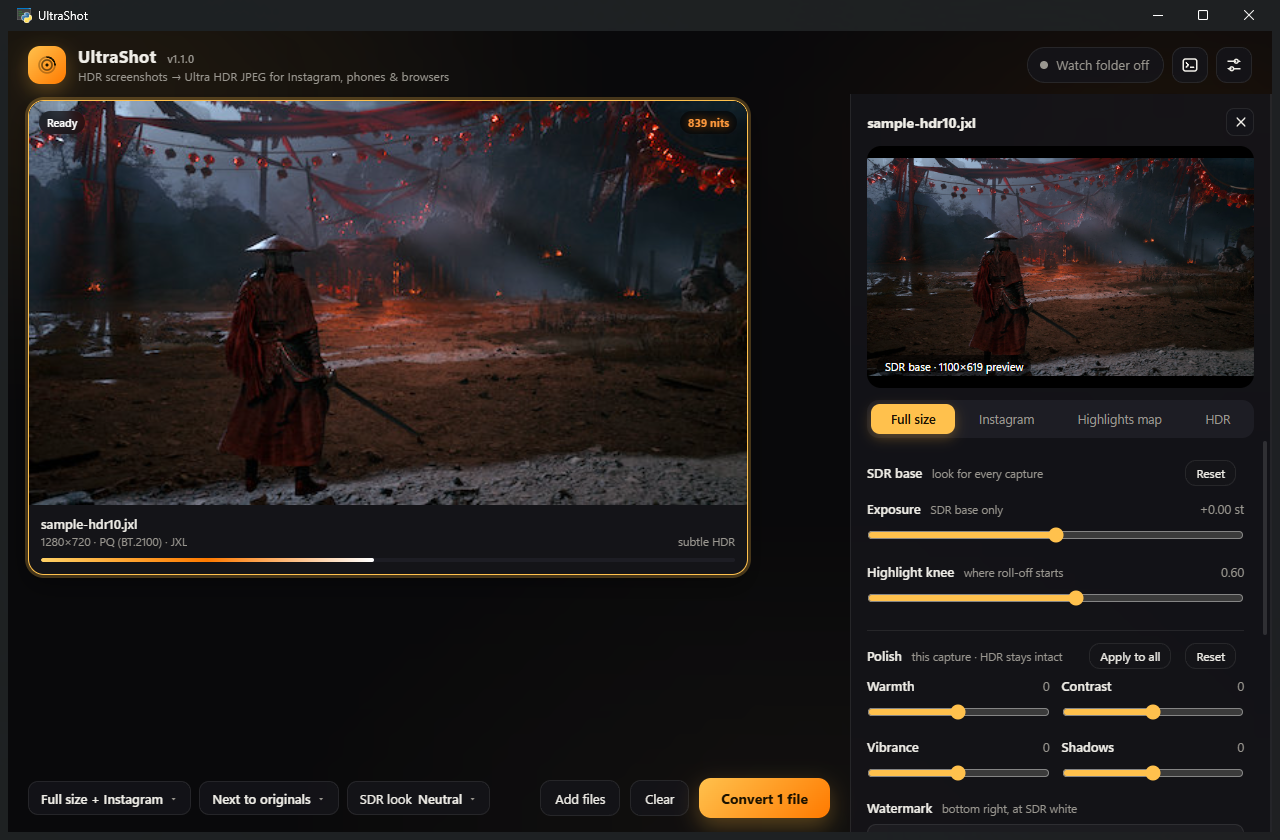
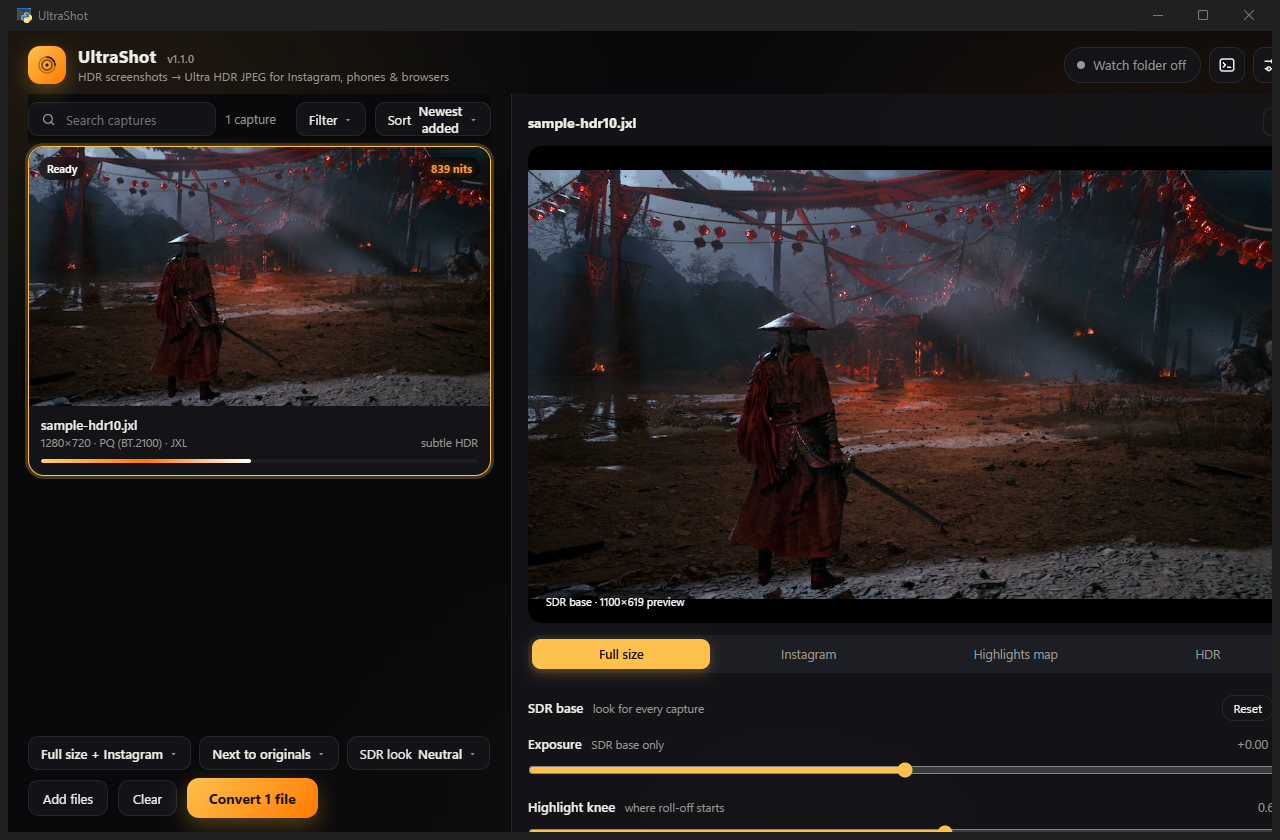
Search, filter and sort for the tiles
A bar above the grid with a search box, a filter menu (pending, converted, failed; JPEG XL or JPEG XR; polished only) and a sort menu (added, capture date, name, brightest, largest). The Convert button and the viewer follow what is shown, the sort is remembered, ties fall back to list order with the newest first, new cards land in place rather than at the end, and Ctrl+F jumps to the search. Anchored menus open below a control in the upper half of the window.

diff --git a/ui/app.js b/ui/app.js
@@ -16,6 +16,7 @@ const S = {
   inspTarget: "full",    // full | ig | heat | hdr
   edit: null,            // uncommitted polish of the selected card while a slider is being dragged
   frame: null,           // uncommitted Instagram framing while the picture is being dragged
+  view: { q: "", status: "all", fmt: "all", polished: false },   // what the grid shows, this launch only
   api: null,
 };
 let previewSeq = 0, previewTimer = null, previewBusy = false, previewAgain = false;
@@ -57,7 +58,7 @@ window.app = {
         const had = S.files.has(p.id);
         S.files.set(p.id, p);
         if (!had) S.order.push(p.id);
-        had ? updateCard(p) : renderGrid();
+        had ? (matches(p) === !!document.querySelector(`.card[data-id="${p.id}"]`) ? updateCard(p) : renderGrid()) : renderGrid();
         if (S.selected === p.id) renderInspectorInfo(p);
         updateProgress();
         updateConvertButton();
@@ -78,21 +79,69 @@ window.app = {
 /* ------------------------------------------------------------------ rendering */
 function renderAll() { renderGrid(); renderChips(); renderWatch(); renderInspectorControls(); updateProgress(); }
 
+// ---- sort and filter -------------------------------------------------------------------------
+const SORTS = {
+  added_desc: ["Newest added", (a, b) => (b.added || 0) - (a.added || 0)],
+  added_asc: ["Oldest added", (a, b) => (a.added || 0) - (b.added || 0)],
+  captured_desc: ["Capture date, newest", (a, b) => (b.mtime || 0) - (a.mtime || 0)],
+  captured_asc: ["Capture date, oldest", (a, b) => (a.mtime || 0) - (b.mtime || 0)],
+  name: ["Name", (a, b) => a.name.localeCompare(b.name, undefined, { numeric: true, sensitivity: "base" })],
+  peak: ["Brightest first", (a, b) => ((b.stats && b.stats.peak) || 0) - ((a.stats && a.stats.peak) || 0)],
+  pixels: ["Largest first", (a, b) => ((b.stats ? b.stats.w * b.stats.h : 0) - (a.stats ? a.stats.w * a.stats.h : 0))],
+};
+const STATUS_FILTERS = { all: "Everything", pending: "Pending", done: "Converted", failed: "Failed" };
+const FMT_FILTERS = { all: "Any format", jxl: "JPEG XL · ReShade", jxr: "JPEG XR · NVIDIA / Game Bar" };
+function viewActive() { const v = S.view; return !!(v.q || v.status !== "all" || v.fmt !== "all" || v.polished); }
+function matches(f) {
+  const v = S.view;
+  if (v.q && !f.name.toLowerCase().includes(v.q)) return false;
+  if (v.status === "pending" && !["queued", "working"].includes(f.status)) return false;
+  if (v.status === "done" && !["done", "skipped"].includes(f.status)) return false;
+  if (v.status === "failed" && f.status !== "failed") return false;
+  if (v.fmt !== "all" && !f.path.toLowerCase().endsWith("." + v.fmt)) return false;
+  if (v.polished && !(f.edit && !polishIsDefault(polishOf(f)))) return false;
+  return true;
+}
+// The cards the grid shows, in the chosen order. Everything that walks the list uses this.
+function visibleIds() {
+  const key = SORTS[S.settings.tile_sort] ? S.settings.tile_sort : "added_desc";
+  const cmp = SORTS[key][1], newestFirst = key !== "added_asc" && key !== "captured_asc" && key !== "name";
+  // ties (a batch added in one go, equal peaks) fall back to the list order, newest first for the descending sorts
+  return S.order.map((id, i) => ({ f: S.files.get(id), i })).filter((x) => x.f && matches(x.f))
+    .sort((a, b) => cmp(a.f, b.f) || (newestFirst ? b.i - a.i : a.i - b.i)).map((x) => x.f.id);
+}
+function renderGridBar(shown) {
+  const v = S.view, total = S.order.length;
+  $("#gridbar").classList.toggle("hidden", total === 0);
+  $("#gridCount").textContent = viewActive() ? `${shown} of ${total}` : `${total} capture${total === 1 ? "" : "s"}`;
+  const parts = [];
+  if (v.status !== "all") parts.push(STATUS_FILTERS[v.status]);
+  if (v.fmt !== "all") parts.push(v.fmt.toUpperCase());
+  if (v.polished) parts.push("Polished");
+  $("#chipFilter").innerHTML = parts.length ? `Filter <b>${parts.join(" · ")}</b>` : "Filter";
+  $("#chipFilter").classList.toggle("active", parts.length > 0);
+  const key = SORTS[S.settings.tile_sort] ? S.settings.tile_sort : "added_desc";
+  $("#chipSort").innerHTML = `Sort <b>${SORTS[key][0]}</b>`;
+  $("#chipSort").classList.toggle("active", key !== "added_desc");
+  if ($("#q").value !== v.q) $("#q").value = v.q;
+}
 function renderGrid() {
   const grid = $("#grid"), empty = $("#empty");
-  const has = S.order.length > 0;
-  grid.classList.toggle("hidden", !has);
+  const has = S.order.length > 0, ids = visibleIds();
   empty.classList.toggle("hidden", has);
+  grid.classList.toggle("hidden", !has || ids.length === 0);
+  $("#nomatch").classList.toggle("hidden", !has || ids.length > 0);
   grid.innerHTML = "";
-  for (const id of S.order) grid.appendChild(cardFor(S.files.get(id)));
-  fitGrid();
+  for (const id of ids) grid.appendChild(cardFor(S.files.get(id)));
+  renderGridBar(ids.length);
+  fitGrid(ids.length);
   updateConvertButton();
 }
 
 // Tiles grow to use the space: one capture fills the view, a handful share it, and only a long
 // list falls back to the dense grid. Re-run whenever the list or the available area changes.
-function fitGrid() {
-  const grid = $("#grid"), main = $("#main"), n = S.order.length;
+function fitGrid(count) {
+  const grid = $("#grid"), main = $("#main"), n = count == null ? visibleIds().length : count;
   if (!n) return;
   const gap = 14, cs = getComputedStyle(main);
   const W = main.clientWidth - parseFloat(cs.paddingLeft) - parseFloat(cs.paddingRight);
@@ -112,11 +161,11 @@ new ResizeObserver(() => fitGrid()).observe(document.getElementById("main"));
 
 function pendingIds() {
   const redo = !!S.settings.overwrite;
-  return S.order.filter((id) => { const f = S.files.get(id); return f && (f.status === "queued" || f.status === "failed" || (redo && f.status !== "working")); });
+  return (viewActive() ? visibleIds() : S.order).filter((id) => { const f = S.files.get(id); return f && (f.status === "queued" || f.status === "failed" || (redo && f.status !== "working")); });
 }
 
 function updateConvertButton() {
-  const b = $("#btnConvert"), pending = pendingIds().length, total = S.order.length;
+  const b = $("#btnConvert"), pending = pendingIds().length, total = viewActive() ? visibleIds().length : S.order.length;
   const working = S.order.some((id) => S.files.get(id)?.status === "working");
   b.disabled = pending === 0;
   if (!total) b.textContent = "Convert";
@@ -452,6 +501,7 @@ async function saveSetting(key, val) {
   if (key === "theme") applyTheme();
   renderChips(); renderWatch(); renderInspectorControls();
   if (["save_mode", "save_dir", "make_full", "make_ig", "auto_sdr", "suffix", "full_dir", "watch", "watch_subfolders"].includes(key)) renderSettings();
+  if (key === "tile_sort") renderGrid();
   if (["exposure", "knee", "auto_sdr", "ig_crop", "transfer", "ig_width"].includes(key)) requestPreview();
 }
 
@@ -561,8 +611,11 @@ function popover(anchor, items, at) {
     p.style.left = Math.max(8, Math.min(at.x, innerWidth - w - 8)) + "px";
     p.style.top = Math.max(8, Math.min(at.y, innerHeight - h - 8)) + "px";
   } else {
-    const r = anchor.getBoundingClientRect();
-    p.style.left = r.left + "px"; p.style.bottom = (innerHeight - r.top + 8) + "px"; p.style.top = "auto";
+    // anchored: open above a control in the lower half of the window, below one in the upper half
+    const r = anchor.getBoundingClientRect(), w = p.offsetWidth;
+    p.style.left = Math.max(8, Math.min(r.left, innerWidth - w - 8)) + "px";
+    if (r.top > innerHeight / 2) { p.style.bottom = (innerHeight - r.top + 8) + "px"; p.style.top = "auto"; }
+    else { p.style.top = (r.bottom + 8) + "px"; p.style.bottom = "auto"; }
   }
   const close = (e) => { if (!p.contains(e.target) && e.target !== anchor) { p.classList.add("hidden"); document.removeEventListener("mousedown", close); } };
   setTimeout(() => document.addEventListener("mousedown", close), 0);
@@ -587,7 +640,7 @@ function appendLog(t, msg) {
 /* ------------------------------------------------------------------ result viewer */
 const LB = { ids: [], i: 0, which: "ig", path: null, seq: 0, info: false, report: "", compare: false, cmpMode: "sdrhdr", cmpZoom: "fit", cmpSeq: 0 };
 
-function convertedIds() { return S.order.filter((id) => { const f = S.files.get(id); return f && f.outputs && f.outputs.length; }); }
+function convertedIds() { return visibleIds().filter((id) => { const f = S.files.get(id); return f && f.outputs && f.outputs.length; }); }
 
 function openResult(id) {
   const f = S.files.get(id);
@@ -853,6 +906,26 @@ function bindUI() {
   live("#rKnee", "knee", (v) => Number(v).toFixed(2), "#vKnee");
   bindFraming();
   bindPaneDrag();
+  // sort and filter
+  let qTimer;
+  $("#q").addEventListener("input", () => { clearTimeout(qTimer); qTimer = setTimeout(() => { S.view.q = $("#q").value.trim().toLowerCase(); renderGrid(); }, 120); });
+  $("#q").addEventListener("keydown", (e) => { if (e.key === "Escape") { $("#q").value = ""; S.view.q = ""; renderGrid(); $("#q").blur(); } });
+  $("#clearFilters").addEventListener("click", () => { S.view = { q: "", status: "all", fmt: "all", polished: false }; renderGrid(); });
+  $("#chipFilter").addEventListener("click", (e) => {
+    const v = S.view, set = (patch) => { Object.assign(S.view, patch); renderGrid(); };
+    popover(e.currentTarget, [
+      ...Object.entries(STATUS_FILTERS).map(([k, label]) => ({ label, checked: v.status === k, run: () => set({ status: k }) })),
+      "-",
+      ...Object.entries(FMT_FILTERS).map(([k, label]) => ({ label, checked: v.fmt === k, run: () => set({ fmt: k }) })),
+      "-",
+      { label: "Polished only", checked: v.polished, run: () => set({ polished: !v.polished }) },
+      ...(viewActive() ? ["-", { label: "Clear filters", run: () => { S.view = { q: "", status: "all", fmt: "all", polished: false }; renderGrid(); } }] : []),
+    ]);
+  });
+  $("#chipSort").addEventListener("click", (e) => {
+    const cur = SORTS[S.settings.tile_sort] ? S.settings.tile_sort : "added_desc";
+    popover(e.currentTarget, Object.entries(SORTS).map(([k, [label]]) => ({ label, checked: cur === k, run: () => saveSetting("tile_sort", k) })));
+  });
   $("#lookReset").addEventListener("click", async () => {
     S.settings = await S.api.set_settings({ exposure: 0, knee: 0.6 });
     renderChips(); renderInspectorControls(); requestPreview();
@@ -905,6 +978,7 @@ function bindUI() {
     if (e.key === "Enter" && !e.ctrlKey && S.selected && document.activeElement.tagName !== "INPUT" && !lbOpen) openResult(S.selected);
     if (e.key === "Delete" && S.selected && document.activeElement.tagName !== "INPUT") S.api.remove(S.selected);
     if (e.ctrlKey && e.key.toLowerCase() === "o") { e.preventDefault(); S.api.pick_files(); }
+    if (e.ctrlKey && e.key.toLowerCase() === "f" && S.order.length) { e.preventDefault(); $("#q").focus(); $("#q").select(); }
     if (e.ctrlKey && e.key === "Enter") convertAll();
   });
   document.addEventListener("contextmenu", (e) => { if (e.target.tagName !== "INPUT") e.preventDefault(); });

diff --git a/ui/app.css b/ui/app.css
@@ -106,6 +106,19 @@ small { color: var(--muted); font-weight: 400; }
 
 /* ---------- main */
 #main { position: relative; z-index: 1; padding: 6px 20px 12px; overflow: auto; min-height: 0; }
+.gridbar { position: sticky; top: -6px; z-index: 3; display: flex; align-items: center; gap: 10px; padding: 8px 0 10px; margin-top: -6px;
+  background: linear-gradient(var(--bg) 82%, transparent); }
+.gridbar .search { display: flex; align-items: center; gap: 8px; height: 34px; padding: 0 12px; border-radius: 10px; background: var(--panel); border: 1px solid var(--border); color: var(--muted); flex: 0 1 260px; min-width: 140px; }
+.gridbar .search:focus-within { border-color: var(--accent); color: var(--text); }
+.gridbar .search input { flex: 1; min-width: 0; border: 0; background: none; color: var(--text); font: inherit; font-size: 13px; outline: none; }
+.gridbar .search input::-webkit-search-cancel-button { filter: invert(.7); cursor: pointer; }
+.gridbar .count { font-size: 12.5px; color: var(--muted); white-space: nowrap; }
+.gridbar .spacer { flex: 1; }
+.gridbar .chip.active { border-color: rgba(255,193,77,.5); color: var(--text); }
+.gridbar .chip.active b { color: var(--accent); }
+.nomatch { color: var(--muted); font-size: 14px; padding: 40px 0; text-align: center; }
+.nomatch .link { color: var(--accent); font: inherit; text-decoration: underline; }
+@media (max-width: 1100px) { .gridbar .count { display: none; } }
 .dropzone {
   height: 100%; min-height: 320px; border-radius: 22px; border: 2px dashed var(--border2);
   display: grid; place-items: center; text-align: center; cursor: pointer; transition: all .2s;

diff --git a/ui/index.html b/ui/index.html
@@ -49,7 +49,18 @@
       </div>
     </div>
   </section>
+  <div id="gridbar" class="gridbar hidden">
+    <label class="search" title="Search by file name (Ctrl+F)">
+      <svg viewBox="0 0 24 24" width="15" height="15" fill="none" stroke="currentColor" stroke-width="2" stroke-linecap="round"><circle cx="11" cy="11" r="7"/><path d="M20 20l-3.5-3.5"/></svg>
+      <input id="q" type="search" placeholder="Search captures" spellcheck="false" autocomplete="off">
+    </label>
+    <span class="count" id="gridCount"></span>
+    <span class="spacer"></span>
+    <button class="chip" id="chipFilter">Filter</button>
+    <button class="chip" id="chipSort">Sort</button>
+  </div>
   <section id="grid" class="grid hidden"></section>
+  <div id="nomatch" class="nomatch hidden">No captures match. <button class="link" id="clearFilters">Clear the filters</button></div>
 </main>
 
 <footer class="bottombar">

diff --git a/ultrashot.py b/ultrashot.py
@@ -85,7 +85,7 @@ DEFAULTS = dict(
     tray=True, startup=True, explorer_menu=False,
     exposure=0.0, knee=0.6, auto_sdr=False, quality=100, peak_nits=0, limit_nits=0, transfer="auto",
     win_w=1280, win_h=840, win_x=-1, win_y=-1,
-    pane_order=[], pane_widths={},
+    pane_order=[], pane_widths={}, tile_sort="added_desc",
 )
 
 
@@ -383,7 +383,7 @@ class App:
 
     def public(self, f):
         return {k: f.get(k) for k in ("id", "name", "path", "size", "status", "stats", "thumb",
-                                      "outputs", "error", "added", "edit", "redo")}
+                                      "outputs", "error", "added", "edit", "redo", "mtime")}
 
     def state(self):
         # The page asks for the state once it has loaded, normally well after the previous session
@@ -405,10 +405,11 @@ class App:
                     continue
                 fid = uuid.uuid4().hex[:10]
                 try:
-                    size = os.path.getsize(p)
+                    st = os.stat(p)
+                    size, mtime = st.st_size, st.st_mtime
                 except OSError:
-                    size = 0
-                f = dict(id=fid, name=os.path.basename(p), path=p, size=size, status="queued",
+                    size, mtime = 0, 0.0
+                f = dict(id=fid, name=os.path.basename(p), path=p, size=size, mtime=mtime, status="queued",
                          stats=None, thumb=None, outputs=[], error=None, added=time.time(),
                          edit=dict(EDIT_DEFAULTS), redo=False)
                 self.files[fid] = f
@@ -468,7 +469,7 @@ class App:
                          size=st.st_size, status=status, stats=None if changed else e.get("stats"),
                          thumb=None, outputs=outputs, error=e.get("error") if status == "failed" else None,
                          added=float(e.get("added") or st.st_mtime), edit=self._edit_of(e.get("edit")),
-                         redo=bool(e.get("redo")))
+                         redo=bool(e.get("redo")), mtime=st.st_mtime)
                 key = self._thumb_key(path, st.st_mtime, st.st_size)
                 keep_keys.add(key)
                 if not changed and f["stats"]:

diff --git a/README.md b/README.md
@@ -203,7 +203,9 @@ convenient way to check a result without involving a phone.
 Drop `.jxl` or `.jxr` files, or folders containing them, anywhere on the window. Each capture appears
 as a card showing a thumbnail of its SDR rendering, its resolution and source format, the brightest
 value in the frame in nits, and a short classification of how much of the frame exceeds SDR white.
-*Convert* processes every card in turn; *Convert selected* in the inspector processes one. Captures
+A bar above the tiles searches by name, filters by state, capture format or polish, and sorts by
+when a capture was added or taken, by name, by peak brightness or by size; the Convert button and
+the viewer follow what is shown. *Convert* processes every card in turn; *Convert selected* in the inspector processes one. Captures
 whose outputs already exist are skipped unless *Overwrite existing outputs* is enabled, so it is safe
 to drop an entire folder repeatedly. Double-clicking a finished card opens the result: in your
 default viewer when it is the only one, or in the built-in viewer that steps through every converted

diff --git a/CHANGELOG.md b/CHANGELOG.md
@@ -23,6 +23,9 @@ All notable changes to UltraShot are documented here. The format follows
   same tone map so the two differ only by what the encoder changed. The source comparison reports
   the PSNR of the base image against the source, the share of pixels off by more than two levels,
   and the mean, 99th-percentile and over-five-percent luminance error of the reconstructed HDR layer.
+- A bar above the tiles with search, a filter (pending, converted, failed; JPEG XL or JPEG XR;
+  polished only) and a sort (added, capture date, name, brightest, largest). The Convert button and
+  the viewer follow what is shown, the sort is remembered, and Ctrl+F jumps to the search.
 - Convert again: a converted card can be converted a second time, replacing the files written
   before, from the inspector button or the card's menu, without turning on the global overwrite
   setting. A change of polish or framing marks the card for this automatically.
